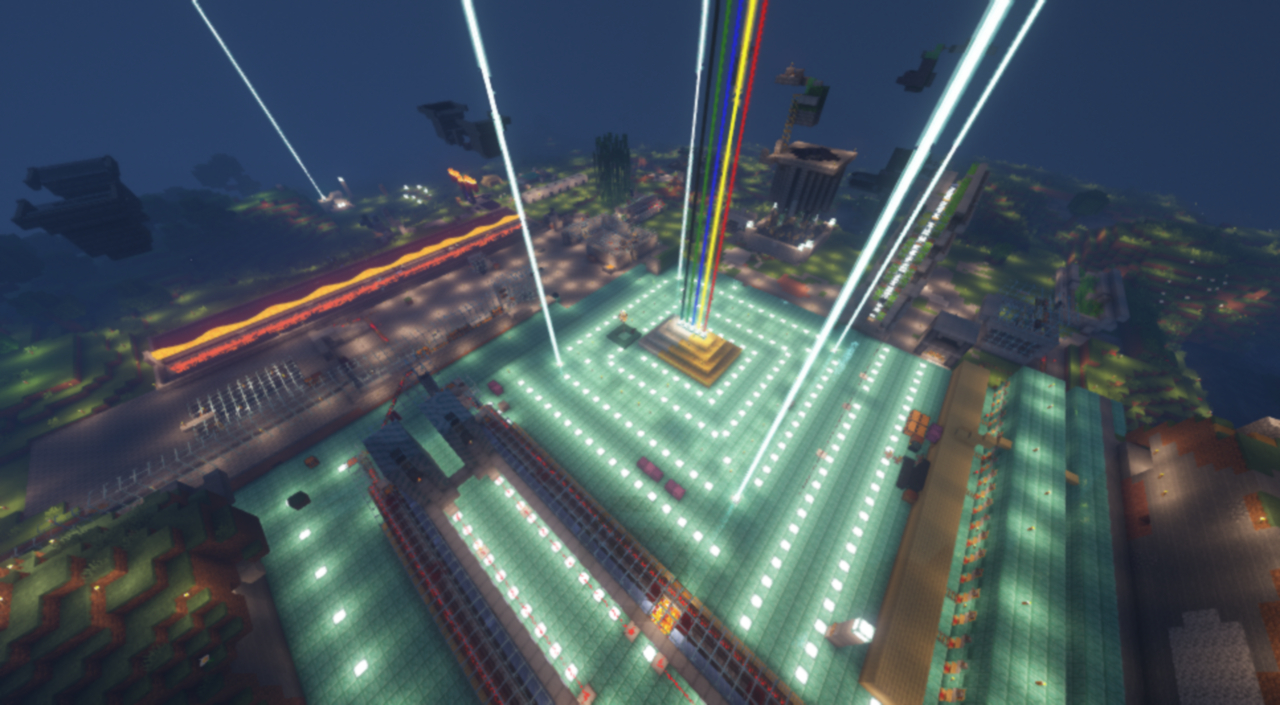
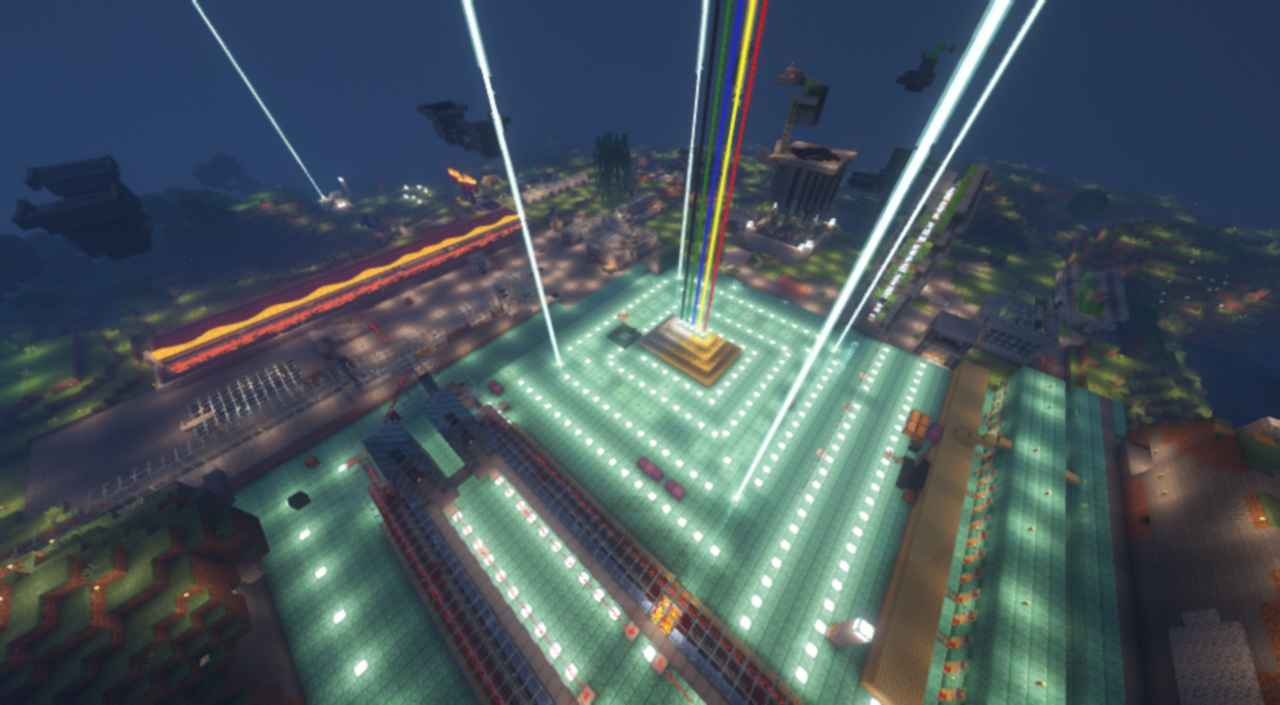
[main]压缩图片

diff --git a/templates/game/index.html b/templates/game/index.html
@@ -391,8 +391,8 @@ Author URL: http://w3layouts.com
 				</div>
 				<div class="modal-body">
 					<div class="agileits-w3layouts-info">
-						<img src="static/images/subway1.jpg" alt="" />
-						<p>地铁经过站点：待补充</p>
+						<img src="static/images/subway.jpg" alt="" />
+						<p>庞大的交通系统，充分展示了我的世界无所不能！</p>
 					</div>
 				</div>
 			</div>
@@ -523,7 +523,7 @@ Author URL: http://w3layouts.com
 			<div class="agileits-team-grids">
 				<div class="col-md-3 agileits-team-grid">
 					<div class="team-info">
-						<img src="static/images/t1.jpg" alt="">
+						<img src="static/images/t1.png" alt="">
 						<div class="team-caption"> 
 							<h4>Deadfish</h4>
 							<p>略懂编程的包工头兼首席技术员兼客服</p>
